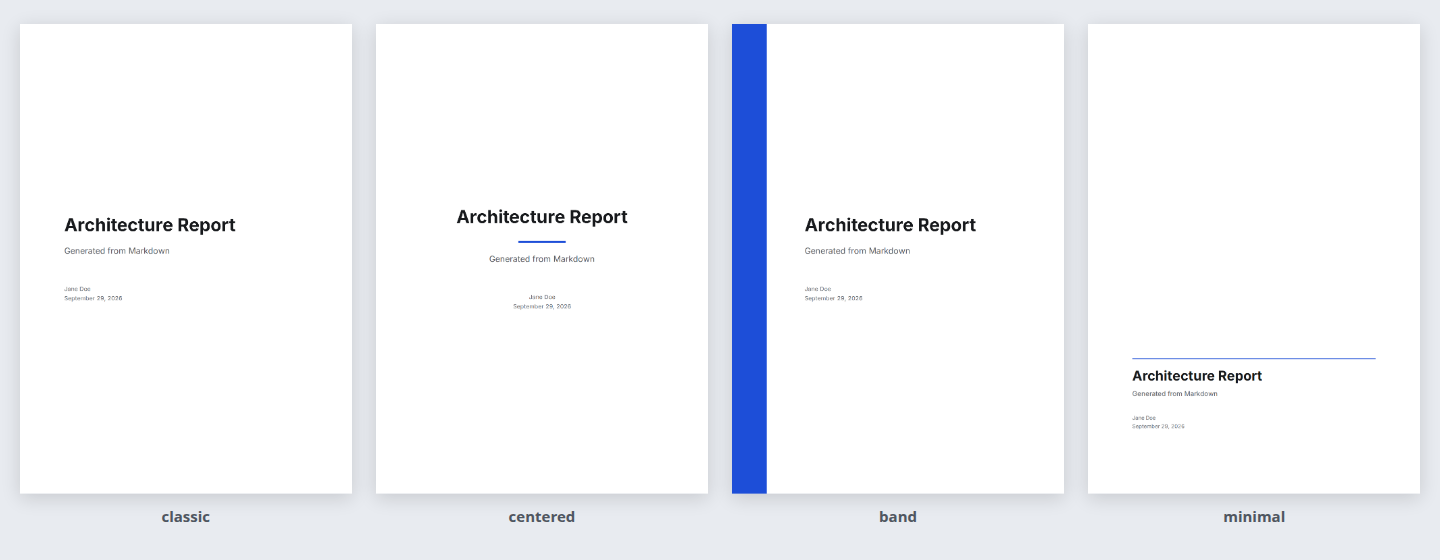
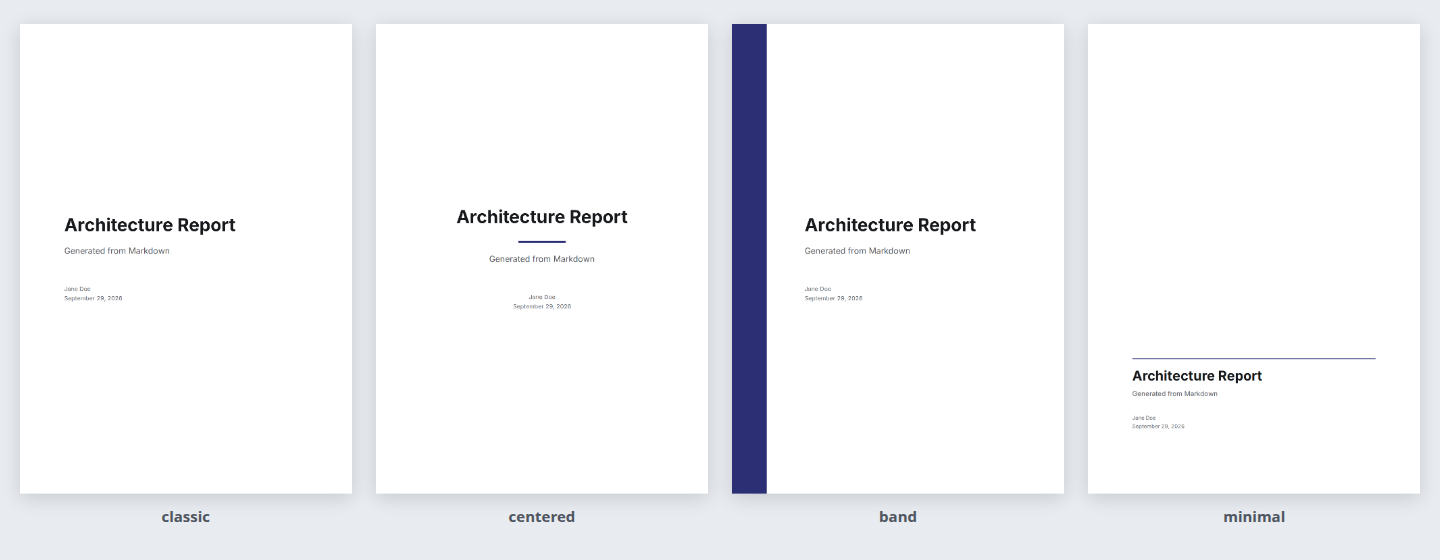
Default accent colour #2c2f73; release 1.13.1
- The cover templates use #2c2f73 as their default accent colour
- README screenshots retaken; changelog updated

Claude-Session: https://claude.ai/code/session_01STSDbq3HEnZxaWFSqkVjJ7

Changed region(s): [[0.5, 0.0304, 0.5312, 0.8804]]

diff --git a/tests/studio-features.spec.js b/tests/studio-features.spec.js
@@ -181,7 +181,7 @@ test('cover templates rearrange the same cover with the accent colour', async ({
   const title = page.locator('#preview .cover-title');
   const style = (locator, property) => locator.evaluate((el, name) => getComputedStyle(el)[name], property);
   expect(await style(cover, 'textAlign')).not.toBe('center');
-  await expect(page.locator('#accentColor')).toHaveValue('#1d4ed8');
+  await expect(page.locator('#accentColor')).toHaveValue('#2c2f73');
 
   await page.locator('#coverTemplate').selectOption('centered');
   await expect.poll(() => style(cover, 'textAlign')).toBe('center');

diff --git a/src/config.js b/src/config.js
@@ -56,7 +56,7 @@ const DEFAULT_STATE = {
   runningHeader: false,
   mirrorMargins: false,
   coverTemplate: 'classic',
-  accentColor: '#1d4ed8',
+  accentColor: '#2c2f73',
 };
 
 // Value kind per config key. Anything not listed here is dropped on import.

diff --git a/CHANGELOG.md b/CHANGELOG.md
@@ -7,6 +7,12 @@ All notable changes to Markdown Paged Studio are listed here, newest first. The 
 
 ## [Unreleased]
 
+## [1.13.1] - 2026-09-29
+
+### Changed
+
+- The default accent colour of the cover templates is `#2c2f73`.
+
 ## [1.13.0] - 2026-09-29
 
 ### Added
@@ -200,7 +206,8 @@ All notable changes to Markdown Paged Studio are listed here, newest first. The 
 - Portable desktop app for Windows, Linux and macOS with direct PDF export.
 - Docker image, Playwright integration tests and CI.
 
-[Unreleased]: https://github.com/florianlotte/markdown-paged-studio/compare/v1.13.0...HEAD
+[Unreleased]: https://github.com/florianlotte/markdown-paged-studio/compare/v1.13.1...HEAD
+[1.13.1]: https://github.com/florianlotte/markdown-paged-studio/compare/v1.13.0...v1.13.1
 [1.13.0]: https://github.com/florianlotte/markdown-paged-studio/compare/v1.12.0...v1.13.0
 [1.12.0]: https://github.com/florianlotte/markdown-paged-studio/compare/v1.11.0...v1.12.0
 [1.11.0]: https://github.com/florianlotte/markdown-paged-studio/compare/v1.10.0...v1.11.0
